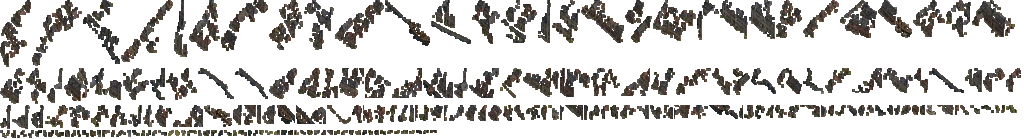
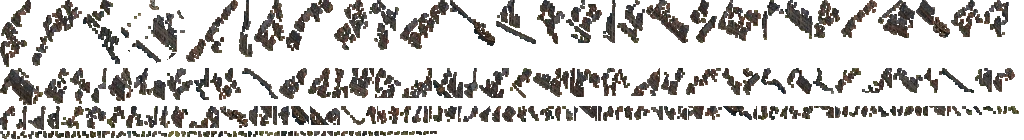
feat(flight): 地標整塊合併立體化（帝都大教堂/皇宮、索菲亞大教堂）— ver -219
座標由使用者在 3D 畫面右鍵取得（pick3d）。

⚠ 為什麼要特別處理：_components 對大於 BLK_SPLIT(900px) 的連通區用 30px
  格子硬切，宮殿與教堂因此各被切成十幾片 —— 實測種子附近最近的塊只有
  48~90px。直接加高度只會得到「十幾根高柱」而不是一棟建築。
  改成先把地標半徑內的屋頂像素整塊取出、從一般分割挖掉，不進格子切分。

⚠ _finish 的 fixed 改為允許逐項 None：地標給固定高度、其餘照舊從 hm 量。
  原本是整體判斷，混用會把一般街廓的高度設成 None。

⚠ pick3d 回報的是地形格，點在高建築屋頂上時射線穿過去打到後方地面，
  座標會系統性偏向遠方 —— 半徑要給得寬鬆（目前 3.0~3.2 地圖像素）。

diff --git a/config.js b/config.js
@@ -8,7 +8,7 @@
 
 /* 版本號：顯示於診斷 HUD（首頁連點團徽 5 下開啟），每次部署遞增尾碼——
  *  用來確認手機（尤其 iOS 主畫面 App 的頑固快取）實際跑到的是哪一版。 */
-export const VERSION = 'ver 2026.08.19-218';
+export const VERSION = 'ver 2026.08.19-219';
 
 export const GAME_CONFIG = {
 

diff --git a/flight/build_city.py b/flight/build_city.py
@@ -85,7 +85,14 @@ JOBS = [{
     'hdst': 'capital_h.webp',
     'mdst': 'capital_mass.webp', 'jdst': 'capital_mass.json',
     'mx': 1005, 'my': 600, 'planW': 1250, 'planRot': 0.0,
-    'landmarks': [(0.500, 0.430, 0.060, H_LAND)],     # 中央的宮殿群
+    'landmarks': [],
+    # 地標整塊合併、不進格子切分。座標是**遊戲內地圖座標**（使用者在 3D 畫面
+    # 右鍵取的）。⚠ pick3d 回報的是地形格，點在高建築屋頂上時射線會穿過去打到
+    # 後方地面，所以座標偏向遠方，半徑要給得寬鬆。
+    'landmarkMass': [
+        {'x': 1010, 'y': 595, 'r': 3.2, 'h': 1.00, 'n': '大教堂'},
+        {'x': 1004, 'y': 582, 'r': 3.2, 'h': 0.78, 'n': '皇宮'},
+    ],
 }, {
     # ver -214：換成**真正的正射俯視**。前兩版都還是「從有限高度往下看」，
     # 結構會往外傾、看得到立面 —— 而引擎畫的是平頂稜柱、屋頂貼圖直接取自平面圖，
@@ -124,6 +131,7 @@ JOBS = [{
     #   不是目測。必須與 index.html 的「聖索菲亞城」一致。
     'mx': 559, 'my': 562, 'planW': 800, 'planRot': 0.79,
     'landmarks': [],
+    'landmarkMass': [{'x': 559, 'y': 562, 'r': 3.0, 'h': 1.00, 'n': '索菲亞大教堂'}],
 }, {
     'src': 'Velafonte_iso.png',
     'dst': 'velafonte_plan.webp',
@@ -338,10 +346,13 @@ def _finish(parts, rgb, al, hm, fixed, note):
         ys, xs = np.where(sub)
         bx0, by0 = int(xs.min()), int(ys.min())
         bx1, by1 = int(xs.max()) + 1, int(ys.max()) + 1
-        if fixed is None:
+        # ⚠ fixed 允許**逐項** None：地標給固定高度、其餘照舊從 hm 量。
+        #   原本是整體判斷 fixed is None，混用就會把一般街廓的高度設成 None。
+        fv = None if fixed is None else (fixed[n_i] if n_i < len(fixed) else None)
+        if fv is None:
             hv = float(np.percentile(hm[oy:oy + sub.shape[0], ox:ox + sub.shape[1]][sub], 80))
         else:
-            hv = float(fixed[n_i])
+            hv = float(fv)
         blocks.append({
             'poly': [(int(px) + ox, int(py) + oy) for [[px, py]] in ap],
             'bb': (int(bx0 + ox), int(by0 + oy), int(bx1 - bx0), int(by1 - by0)),
@@ -382,7 +393,8 @@ def _finish(parts, rgb, al, hm, fixed, note):
     return blocks, Image.fromarray(atlas, 'RGBA')
 
 
-def extract_blocks(rgb, al, built, hm, name, mode='dark', classes=None, nosplit=False):
+def extract_blocks(rgb, al, built, hm, name, mode='dark', classes=None, nosplit=False,
+                   lmarks=None, lm_mx=0, lm_my=0, lm_hw=1, lm_hh=1):
     """回傳 (blocks, atlas_image)。blocks 是 dict 列表，座標都在插畫像素空間。
 
     classes 有給就走「逐類別固定高度」（聖王廳）；否則依 mode 從圖上分街廓。
@@ -422,7 +434,43 @@ def extract_blocks(rgb, al, built, hm, name, mode='dark', classes=None, nosplit=
     T = float(np.percentile(hp[built], ROOF_Q))
     roof = cv2.morphologyEx((built & (hp <= T)).astype(np.uint8), cv2.MORPH_OPEN,
                             np.ones((3, 3), np.uint8))
-    return _finish(_components(roof), rgb, al, hm, None, '（門檻 %.1f）' % T)
+
+    # ── 地標：整塊合併，不進格子切分 ───────────────────────────────
+    # ⚠ 為什麼要特別處理：_components 對大於 BLK_SPLIT(900px) 的連通區用 30px
+    #   格子硬切，宮殿與教堂因此各被切成十幾片。就算把高度加上去，得到的也是
+    #   「十幾根高柱」而不是一棟建築 —— 實測帝都種子附近最近的塊只有 48~90px。
+    # ⚠ 種子座標是**遊戲內地圖座標**（使用者在 3D 畫面右鍵取的），不是圖上像素。
+    #   注意 pick3d 回報的是地形格：點在高建築屋頂上時射線會穿過去打到後方地面，
+    #   所以座標會系統性偏向遠方，半徑要給得寬鬆一點。
+    parts, fixed = [], []
+    if lmarks:
+        Hh2, Ww2 = roof.shape
+        yy2, xx2 = np.mgrid[0:Hh2, 0:Ww2]
+        for L in lmarks:
+            u = (L['x'] - lm_mx) * MAP_SCALE / lm_hw
+            v = (L['y'] - lm_my) * MAP_SCALE / lm_hh
+            px = (u * 0.5 + 0.5) * (Ww2 - 1)
+            py = (v * 0.5 + 0.5) * (Hh2 - 1)
+            rp = L.get('r', 3.0) * MAP_SCALE / lm_hw * 0.5 * (Ww2 - 1)
+            disc = ((xx2 - px) ** 2 + (yy2 - py) ** 2) <= rp * rp
+            sel = disc & (roof > 0)
+            if sel.sum() < BLK_MIN:
+                print('  ⚠ 地標「%s」在 (%.0f,%.0f) 找不到屋頂像素，跳過'
+                      % (L.get('n', '?'), L['x'], L['y']))
+                continue
+            ys2, xs2 = np.where(sel)
+            bx, by = int(xs2.min()), int(ys2.min())
+            parts.append((bx, by, sel[by:ys2.max() + 1, bx:xs2.max() + 1]))
+            fixed.append(L['h'])
+            roof[disc] = 0                     # 從一般分割裡挖掉，避免重複
+            print('  地標「%s」：%d px 合併成一塊，高度 %.2f（半徑 %.1f 地圖px）'
+                  % (L.get('n', '?'), sel.sum(), L['h'], L.get('r', 3.0)))
+
+    parts += _components(roof)
+    fixed += [None] * (len(parts) - len(fixed))
+    if all(f is None for f in fixed):
+        fixed = None
+    return _finish(parts, rgb, al, hm, fixed, '（門檻 %.1f）' % T)
 
 
 hmap = np.asarray(Image.open(HEIGHTMAP).convert('L')).astype(np.float32)
@@ -621,7 +669,11 @@ for J in JOBS:
         _cls = holysee_classes(rgb, al, built) if J.get('classes') == 'holysee' else None
     blocks, atlas = extract_blocks(rgb, al, built, hm, J['dst'],
                                    J.get('blockmode', 'dark'), _cls,
-                                   nosplit=_lbl is not None)
+                                   nosplit=_lbl is not None,
+                                   lmarks=J.get('landmarkMass'),
+                                   lm_mx=J['mx'], lm_my=J['my'],
+                                   lm_hw=J['planW'] * 0.5,
+                                   lm_hh=J['planW'] * 0.5 * H2 / W2)
     atlas.save(os.path.join(CITY, J['mdst']), quality=QUALITY, method=6)
     json.dump({
         'w': W2, 'h': H2,
